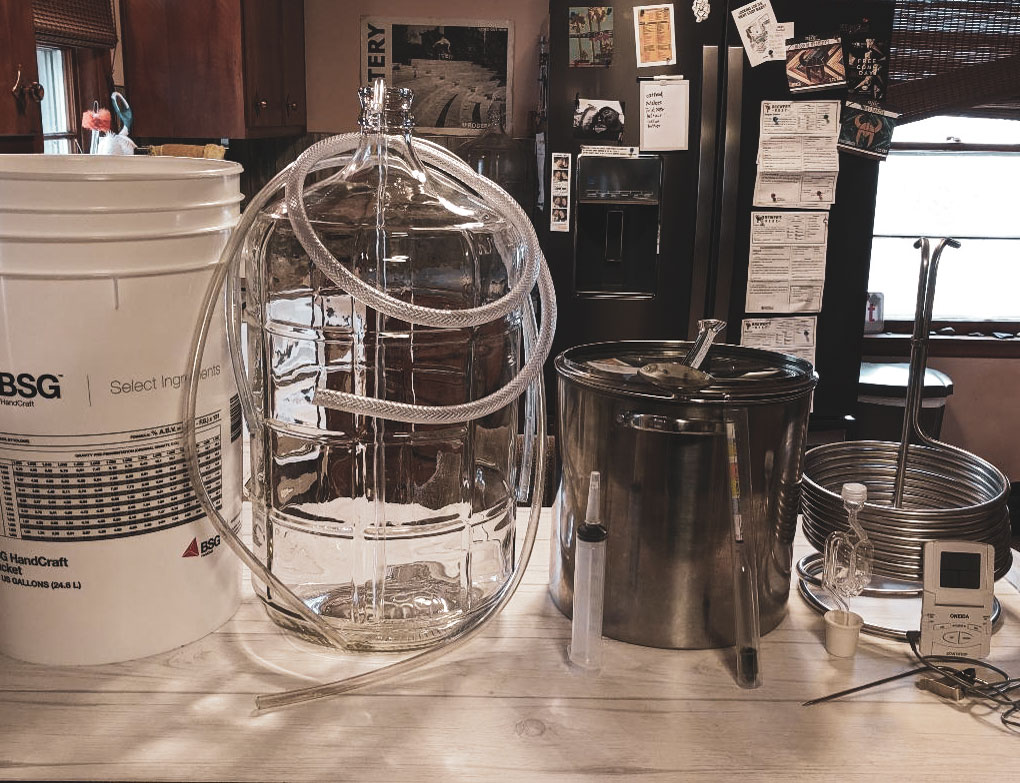
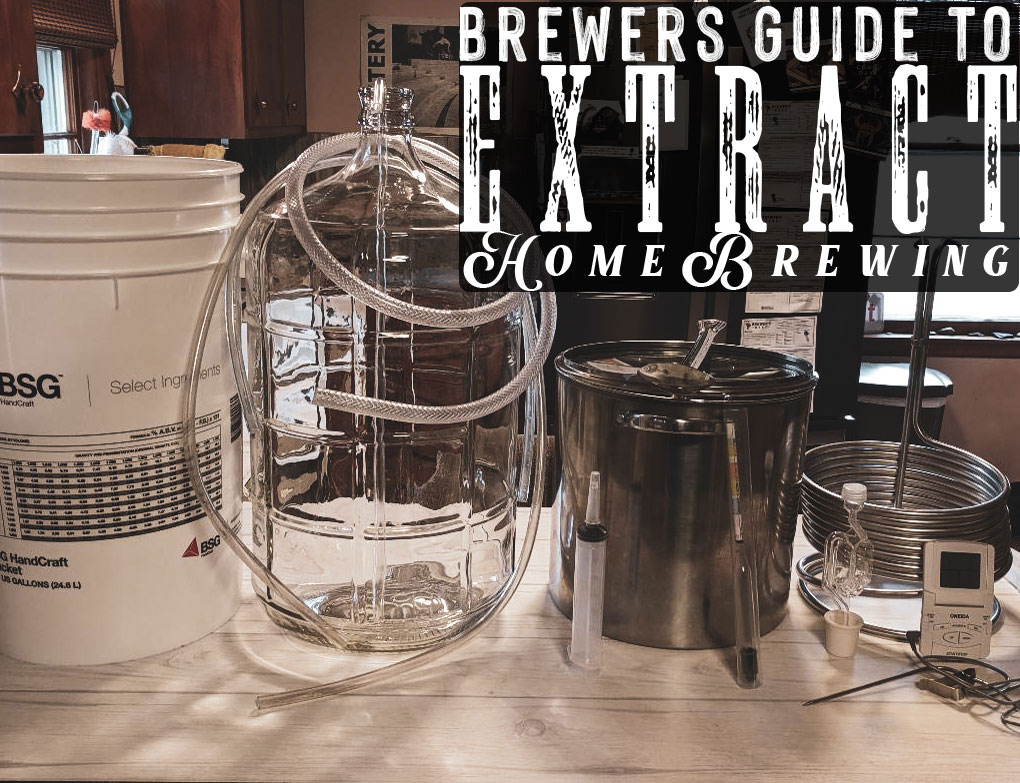
last minute changes

Changed region(s): [[0.4255, 0.0, 1.0, 0.3985]]

diff --git a/js/flavorModal.js b/js/flavorModal.js
@@ -1,38 +1,33 @@
 
 function modalToggleA() {
-const modalToggleA = () => {
-  document.querySelector(".flavorModalA").classList.toggle('flavorModalA--hidden');
-};
-  // opens flavor modal
-document.getElementById('flavorA').addEventListener('click', modalToggleA);
-//closes flavor modal
-document.getElementById('closeA').addEventListener('click', modalToggleA);
-};
-
-
-function modalToggleB() {
-const modalToggleB = () => {
-  document.querySelector(".flavorModalB").classList.toggle('flavorModalB--hidden');
+  const modalToggleA = () => {
+    document.querySelector(".flavorModalA").classList.toggle('flavorModalA--hidden');
   };
-// opens flavor modal
-document.getElementById('flavorB').addEventListener('click', modalToggleB);
-//closes flavor modal
-document.getElementById('closeB').addEventListener('click', modalToggleB);
-};
-
-
-function modalToggleC() {
-const modalToggleC = () => {
-  document.querySelector(".flavorModalC").classList.toggle('flavorModalC--hidden');
+    // opens flavor modal
+  document.getElementById('flavorA').addEventListener('click', modalToggleA);
+    //closes flavor modal
+  document.getElementById('closeA').addEventListener('click', modalToggleA);
+  }
+  
+  function modalToggleB() {
+  const modalToggleB = () => {
+    document.querySelector(".flavorModalB").classList.toggle('flavorModalB--hidden');
+    };
+  
+  document.getElementById('flavorB').addEventListener('click', modalToggleB);
+  document.getElementById('closeB').addEventListener('click', modalToggleB);
+  }
+  
+  function modalToggleC() {
+  const modalToggleC = () => {
+    document.querySelector(".flavorModalC").classList.toggle('flavorModalC--hidden');
+    };
+  document.getElementById('flavorC').addEventListener('click', modalToggleC);
+  document.getElementById('closeC').addEventListener('click', modalToggleC);
   };
-  // opens flavor modal
-document.getElementById('flavorC').addEventListener('click', modalToggleC);
-//closes flavor modal
-document.getElementById('closeC').addEventListener('click', modalToggleC);
-};
+  
+  
+  
 
-
-//to refactor
-
-
-
+ 
+      

diff --git a/extractProcess.html b/extractProcess.html
@@ -36,8 +36,6 @@
         </header>
         <hr class="navRule">
         <main class="index-extract">
-            <img class="typo" src="icons/extracttypo.png" alt="brewers guide to bomebrewing">
-
             <section class="ImageToList">
                 <img onclick="imgListToggle()" id="ex-image" class= "ex-image" src="images/processImg/equipment.jpg"
                     alt="homebrewing equipment" title="click to view list of necessary homebrewing equipment." />
@@ -60,7 +58,8 @@
                     </div>
                 </div>
                 </section>
-    <article class="article-extract">
+    
+    
         <p class="ex-p">If you want to view a list of items that will be necessary to begin your homebrewing journey
             click on the image above. There are,
             however, two items on the list that are optional. The tilt digital hydrometer is a
@@ -74,9 +73,7 @@
             receives between cooling and pitching, which in turn reduces the risk of possible contaimination.
             Aside from those reasons it really does cool your wort down so much faster than ice baths alone,
             so its a nice piece of equipment that speeds up production.</p>
-    </article>
-
-<article class="article-extract">
+ 
     <h2>The Brewing Process</h2>
     <p class="ex-p">Below is the process for extract brewing. The process is generic and fairly simple. Keep in mind
         depending upon the recipe and the style your malt and hop additions and fermentation times may vary.
@@ -172,7 +169,8 @@
         co2 line. Co2 infuses into your beer faster at colder temperatures. Allow your keg to sit at about
         10-15 psi for about a week but dont forget to monitor your regulator. When its time to serve turn
         the psi down to about 7.</p>
-    </article>
+    
+
         <div class= "box"><img class="ex-image" src="images/processImg/pouringBeer.gif" alt="kegs" title="kegs"/><br></div>
     <a href="brews.html"><button class="randomBtn" type="button">Return to Brews</button></a>
    

diff --git a/css/styles.css b/css/styles.css
@@ -31,7 +31,7 @@ p {
   flex: 1 1 auto;
   width: 100%;
   padding: 3%;
-  max-width: 305px;
+  /* max-width: 305px; */
   }
 
 h1,
@@ -164,9 +164,10 @@ body {
   }
 
 /*** homepage, (index-brew ->brew page mobile), 
-(main-> products page)(extract-> page) ***/
+(main-> products page)(extract-> page)(contact page) ***/
   .index-main, .index-brew, 
-  .main,  .article-extract {
+  .main, .article-extract, 
+  .index-extract, .index-con {
   display: flex;
   flex-direction: column;
   align-items: center;
@@ -529,7 +530,7 @@ legend {
   }
 
 .box {
-  max-width: 50%;
+  max-width: 100%;
   }
 
 .centerList {
@@ -885,6 +886,8 @@ legend {
 .centerList {
   margin-top: 10%;
   } 
+
+
 }
 /****** Large-ish Screen Media Queries: Targets VP sizes 1200px & wider. *******/
 @media (min-width: 1024px) {
@@ -1069,7 +1072,7 @@ nav {
 /* extract page */
 
 .ex-p {
-  max-width: 40vw;
+  max-width: 65vw;
   } 
 }
 
@@ -1104,4 +1107,11 @@ Larger VP sizes 1400px
   width: 90%;
   height: 400px;
   }  
+  /* index page */
+.home-image {
+  width: 1200px;
+}  
+.p1, .p2 {
+   width: 35vw;
+  }
 }

diff --git a/js/productProgram.js b/js/productProgram.js
@@ -47,8 +47,6 @@ document.addEventListener("DOMContentLoaded", () => {
  lightbox.addEventListener('click', e => {
      if (e.target !== e.currentTarget) return;
      lightbox.classList.remove('active');
-    //  window.location.reload();
-     
    });
  }
 
@@ -67,16 +65,10 @@ document.addEventListener("DOMContentLoaded", () => {
       cartArr.pop(item);
       console.log(cartArr);  
       }
-      // function addTotal(i) {
-      // const stringToNums = cartArr.map(i => parseFloat(i));
-      // console.log(stringToNums);
-      //   const totalArr = stringToNums.reduce((sum, stringToNum) => sum += stringToNum, 0);
-      //   console.log(totalArr);
-      // }
     }
   );
 });
 
 
- 
+ //incomplete shopping cart :( 
 

diff --git a/index.html b/index.html
@@ -55,7 +55,7 @@
                     <div class="modalContents"> 
                       <img class="flavorSm" src="images/glassware/thor.jpg" alt="njor-beer" title="njor brewery"/>
                        <h2>Thor’s Hammer</h2><p class= "thorsDes">is a crisp pilsner that is light and easy to drink. Hints of coriander and orange peel.</p>
-                       <div id= "close"><button onclick="modalToggleA()">x</button></div>
+                       <div id= "closeA"><button onclick="modalToggleA()">x</button></div>
                     </div> 
                   </div>
                  

diff --git a/contact.html b/contact.html
@@ -35,7 +35,7 @@
             </nav>
         </header>
         <hr class="navRule">
-        <main class="index-main">
+        <main class="index-con">
             <div class="conSection">
                 <img class="con-image" src="images/beer/breweryDude.jpg" alt="brewery guy pouring beer"/>
                    <article class="con-text">

diff --git a/js/extractList.js b/js/extractList.js
@@ -6,4 +6,4 @@ function imgListToggle() {
     document.getElementById('ex-image').addEventListener('click', imgListToggle);
     //closes flavor modal
     document.querySelector('body').addEventListener('click', imgListToggle);
-    };
+    }

diff --git a/products.html b/products.html
@@ -69,7 +69,6 @@
     <script src="js/hamburger.js"></script>
     <script src="js/productObject.js"></script>
     <script src="js/productProgram.js"></script>
-    <!-- <script src="js/light.js"></script> -->
 </body>
 
 </html>

diff --git a/README.md b/README.md
@@ -1,5 +1,5 @@
 <b>README:</b>
-For the Code Louisville project I decided to make a web app showcasing one of my faviorite hobbies, homebrewing. I had a few struggles with this project. The first issue I had is the amount of time it took me to decide on a project. I had started on a few different projects which eventually came to a halt in favor of the brewing app. Open APIs played a part in this decision. Finding the right API for my app was half the struggle.   
+For the Code Louisville project I decided to make a web app showcasing one of my faviorite hobbies, homebrewing. I had a few struggles with this project. The first issue I had is the amount of time it took me to decide on a project. I had started on a few different projects which eventually came to a halt in favor of the brewing app. Open APIs played a part in this decision. Finding the right API for my app was half the struggle. 
 
 <b>Features:</b>
 My project was built with a mobile first approach, starting with a streamlined design for small devices and scaled up using  media queries to alter the layouts for bigger devices.
@@ -13,9 +13,14 @@ A flexbox direction change from column (for mobile) to row, (for larger viewport
 
 <b>(JS Feature: Post Data)</b> A contact form that uses regular expressions to validate the users input, and then that input (the users first & last name, as well as their comments) are then posted to jsonplaceholder.typicode.com/comments api. (You can easily see this post because it is also logged to the console.)
 
-<b>(JS Feature: ABV calculator)</b> Under the tools & calculators tab on the Brews page, I have created an ABV calculator that used regular expressions to let the user know if they mistakenly enter in invalid character. A tool-tip pop ups that informs the user that only numbers 0-9 are valid. After the user inputs the starting gravity and the final gravity and then clicks the get abv button the calcABV function subtracts the two inputs and the multiplies the sum by 131, the tofixed method rounds the value to keep only two decimals. Then the final value is displayed to the user.
+<b>(JS Feature: Function that Calculates)</b> Under the tools & calculators tab on the Brews page, I have created an ABV calculator that used regular expressions to let the user know if they mistakenly enter in invalid character. A tool-tip pop ups that informs the user that only numbers 0-9 are valid. After the user inputs the starting gravity and the final gravity and then clicks the get abv button the calcABV function subtracts the two inputs and the multiplies the sum by 131, the tofixed method rounds the value to keep only two decimals. Then the final value is displayed to the user.
 
-<b>(JS Feature: JSON Parse)</b>
+<b>(JS Feature: JSON Read & Parse)</b>It was mentioned, (in 'class') that our AJAX calls would fulfill the AJAX requirement but not the read & parse an external JSON or CSV file into your app requirement, so I created a JSON file and stored it external on https://www.npoint.io/. Then I made a fetch request to retreive, read and parse that data into glossary.html.
+
+<b>(JS Feature: Array of objects)</b> Beers.js & productObjects.js are both array of objects, which I created to organize and display data in my app.
+
+<b>(JS Feature: Regex)</b> I used regular expressions on my contact form to validate user input on my contact form, and in my ABV calculator.
+
 
 
 
